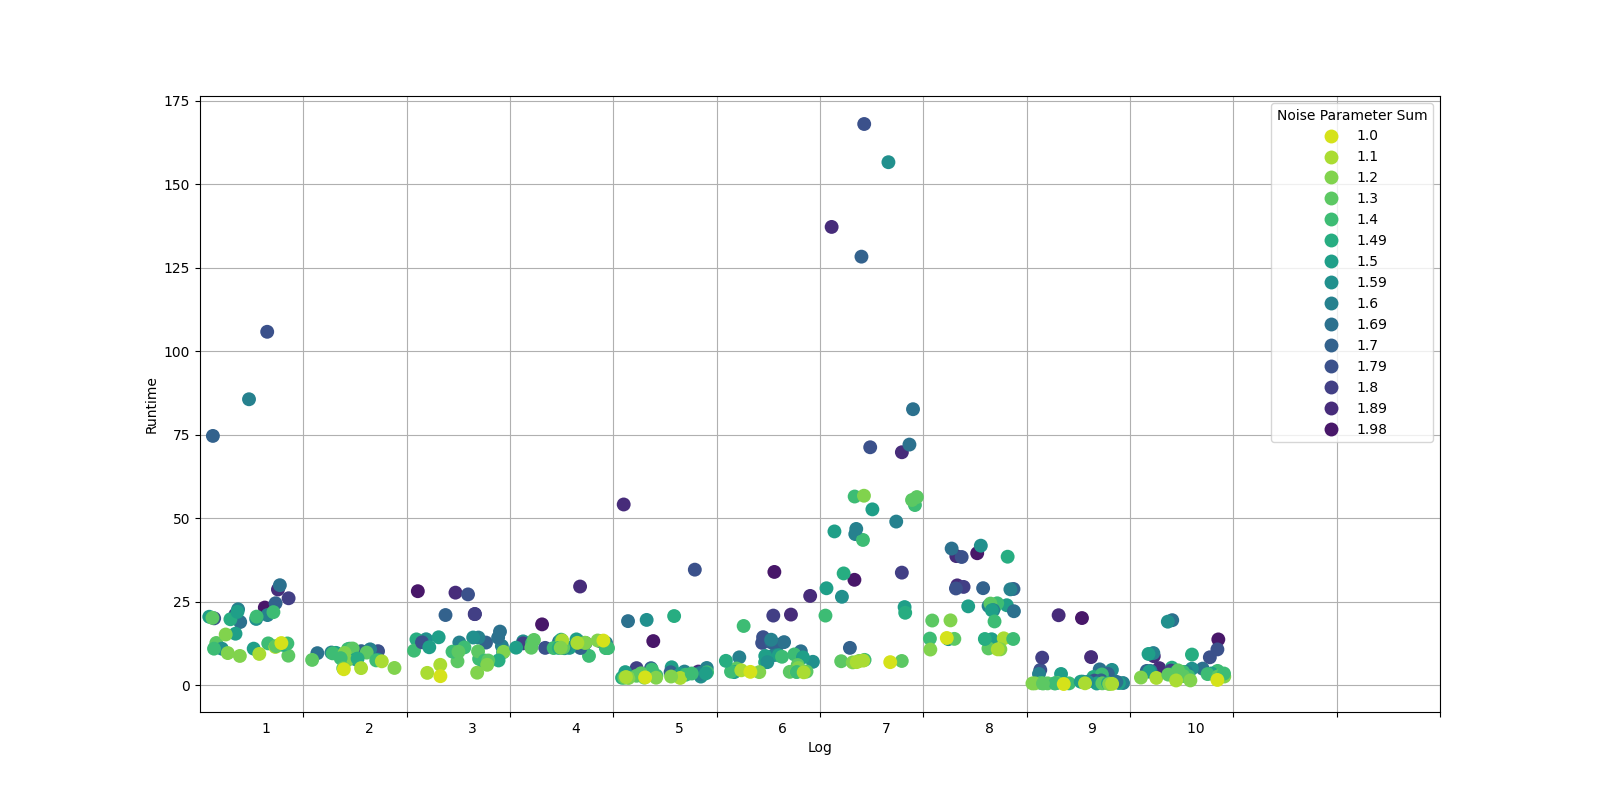
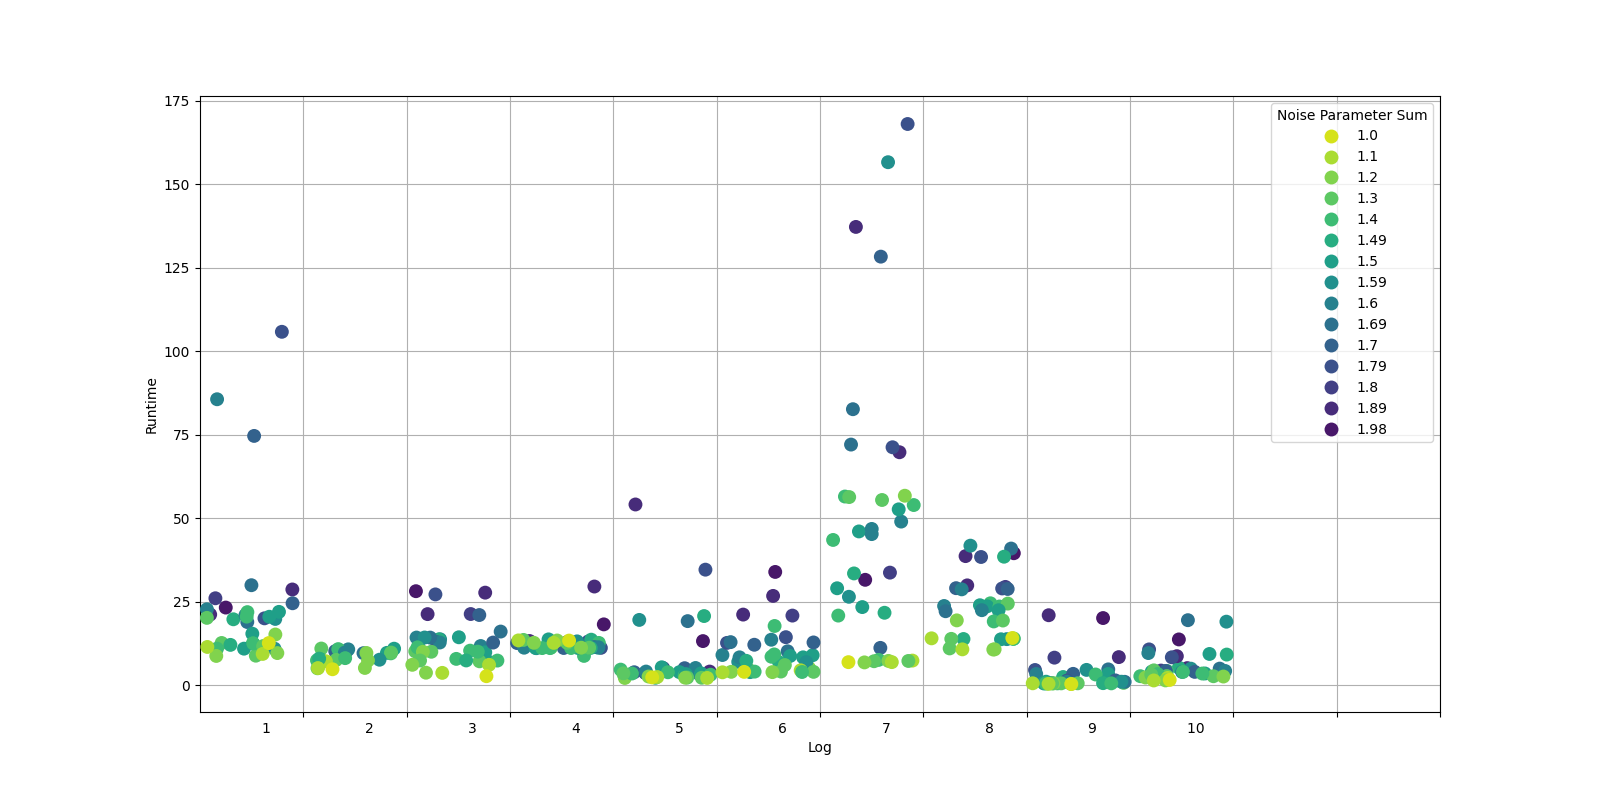
added example application extension

diff --git a/plot_journal.py b/plot_journal.py
@@ -20,57 +20,5 @@ ax.set_xticks([0.5 + i for i in range(0, 12)])
 ax.set_xticklabels([str(i) + "                 " for i in range(1, 11)]+["",""])
 plt.savefig("runtime.png")
 #plt.show()
-exit()
 
 
-strict_rank = {
-    "strict":0,
-   "partition":1,
-   "overlap":2,
-  "order":3,
-    "batch":4,
-    "concurrent":5
-}
-
-
-
-def evaluate_relations_average_coverage(relation_string):
-    relation = eval(relation_string)
-    result = {key:[] for key in strict_rank.keys()}
-    for operator, activities in relation:
-        for key in result.keys():
-            if key in operator.lower():
-                result[key].append(len(activities))
-    return sum([(sum(result[key]) / len(result[key]) if result[key] else 0) for key in result.keys()]) / 6
-
-
-def evaluate_relations_per_kind(relation_string,key):
-    relation = eval(relation_string)
-    return len([operator for operator,activities in relation if key in operator.lower()])
-
-
-def evaluate_relation_count(relation_string):
-    relation = eval(relation_string)
-    result = {operator for operator,activities in relation}
-    return len(result)
-
-data["Average Activity Coverage"] = data["Relations"].apply(lambda entry:evaluate_relations_average_coverage(entry))
-data["Average Relation Count"] = data["Relations"].apply(lambda entry:evaluate_relation_count(entry))
-
-
-
-for key in strict_rank.keys():
-    print(key)
-    data[key] = data["Relations"].apply(lambda entry: evaluate_relations_per_kind(entry, key))
-    print(data.groupby("Parameter1")[key].mean())
-    print(data.groupby("Parameter2")[key].mean())
-
-print(data.groupby("Noise Parameter Sum")["Average Relation Count"].mean())
-print(data.groupby("Parameter1")["Average Relation Count"].mean())
-print(data.groupby("Parameter2")["Average Relation Count"].mean())
-
-
-blocked = ["subset_sync", "implication"]
-eocpt = extended_df2_miner_apply("data/10_ocel_legacy_recruiting.jsonocel",
-                        0.90,0.7,blocked)
-print(str(eocpt))

diff --git a/example_journal.py b/example_journal.py
@@ -1,0 +1,38 @@
+
+
+from src_journal import extended_df2_miner_apply
+
+
+
+
+
+
+
+
+
+#case study for the showcase application --> recruitment model with synchronizations
+blocked = ["subset_sync", "implication"]
+eocpt = extended_df2_miner_apply("data/10_ocel_legacy_recruiting.jsonocel",
+                        0.90,0.7,blocked)
+print(str(eocpt))
+
+
+#case study for the showcase application --> recruitment model with implications
+blocked = ["subset_sync", "strict_sync"]
+eocpt = extended_df2_miner_apply("data/10_ocel_legacy_recruiting.jsonocel",
+                        0.90,1.00,blocked)
+print(str(eocpt))
+
+
+#case study for the showcase application --> order management model with synchronizations
+blocked = ["subset_sync", "implication"]
+eocpt = extended_df2_miner_apply("data/01_ocel_standard_order_management.json",
+                        0.90,1.00,blocked)
+print(str(eocpt))
+
+
+#case study for the showcase application --> order management model with implications
+blocked = ["subset_sync", "strict_sync"]
+eocpt = extended_df2_miner_apply("data/01_ocel_standard_order_management.json",
+                        0.90,1.00,blocked)
+print(str(eocpt))
